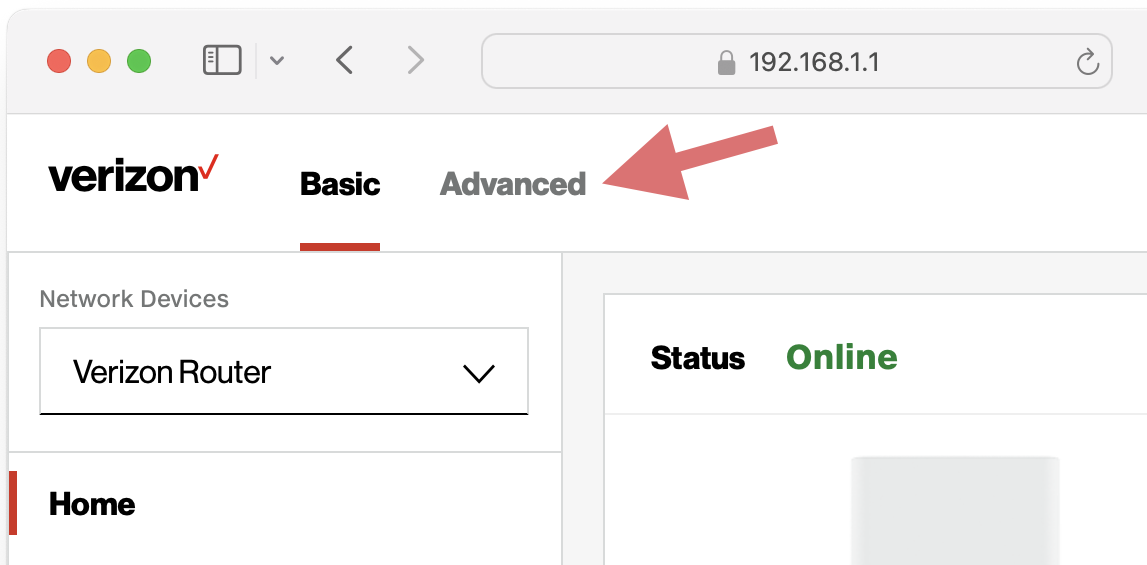
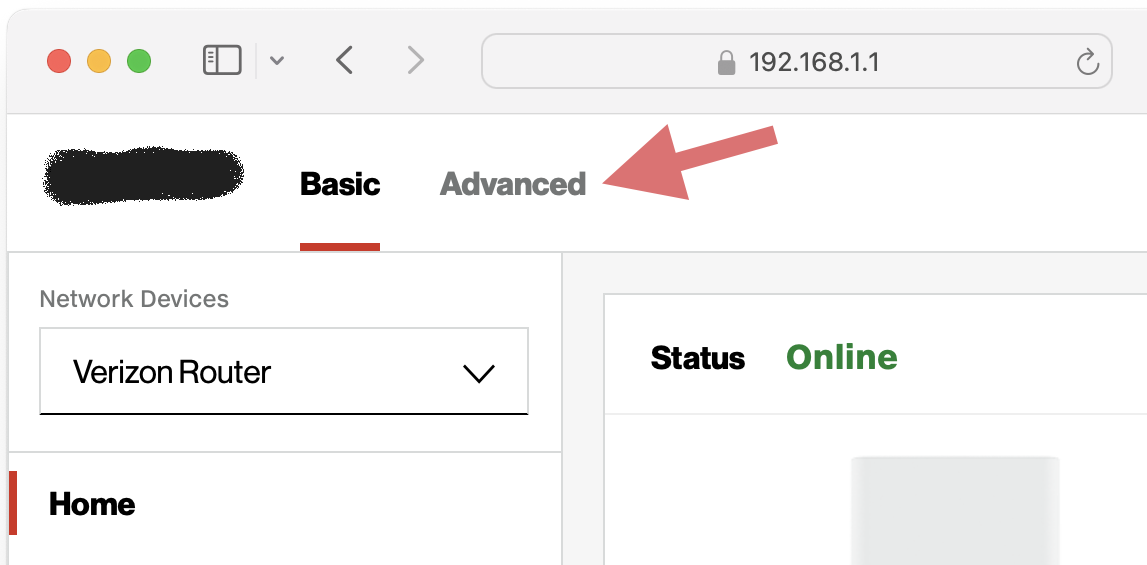
Small edits, more still needed

Changed region(s): [[0.0305, 0.2407, 0.2136, 0.3611]]

diff --git a/README.md b/README.md
@@ -704,11 +704,11 @@ sudo ufw allow 22/tcp
 
 ❏ Open a web browser on a desktop computer and enter the IP address for your router's admin panel. There's a good chance the IP address is `192.168.1.1`. Press enter, then log in with your admin password.
 
-If your ISP is Verizon, you'll need to click **Advanced** at the top of the window to switch to the advanced admin panel.
+If your ISP is V\*\*\*\*\*\*\*, you'll need to click **Advanced** at the top of the window to switch to the advanced admin panel.
 
 ![](images/2024-05-11-09-42-15-image.png)
 
-Navigate to **Security & Firewall**, then **Port Forwarding**.
+❏ Navigate to **Security & Firewall**, then **Port Forwarding**.
 
 ![](images/2024-05-11-10-19-16-image.png)
 
@@ -774,7 +774,7 @@ sudo apt install ddclient
 
 &nbsp;&nbsp;
 
-❏ Run this command to install a dependency:
+❏ Run this command to install a required dependency:
 
 ```
 sudo apt install libio-socket-ssl-perl
@@ -782,9 +782,17 @@ sudo apt install libio-socket-ssl-perl
 
 
 
-Once `ddclient` is installed, a setup wizard will launch. Select **other** from the list of service providers.
+❏ Once `ddclient` is installed, a setup wizard will launch. 
 
-<img src="images/vlcsnap-2024-05-04-22h49m15s041.png" />Choose `dyndns2` from the list of protocols. Then type `dynv6.com` for your DDNS server.
+
+
+[New screen captures needed starting here.]
+
+Select **other** from the list of service providers.
+
+<img src="images/vlcsnap-2024-05-04-22h49m15s041.png" />
+
+❏ Choose `dyndns2` from the list of protocols. Then type `dynv6.com` for your DDNS server.
 
 Under **Username** type `none`. Select `Ok`.
 
